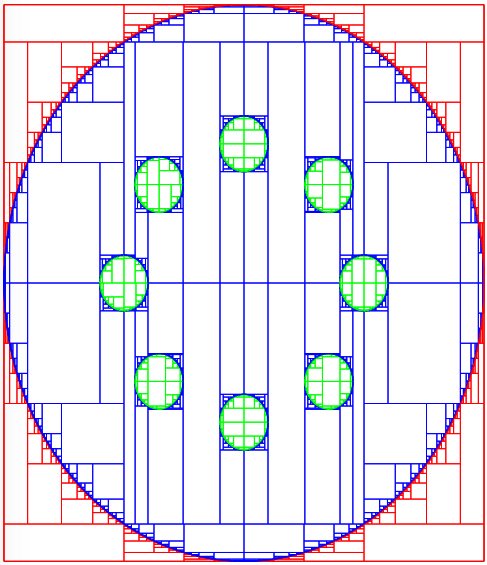
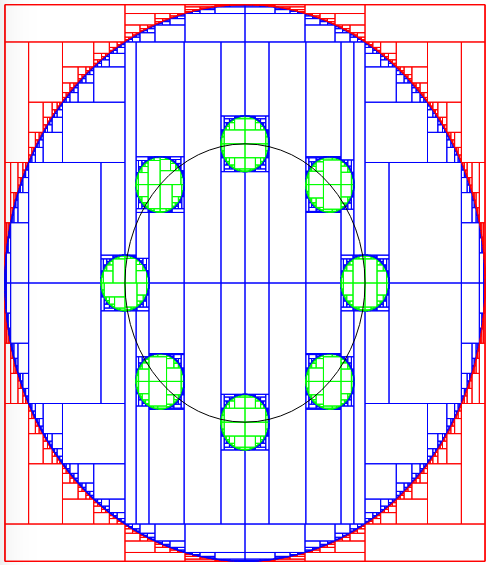
Doc update

diff --git a/examples/doc-set.cpp b/examples/doc-set.cpp
@@ -215,4 +215,79 @@ int main() {
   vibes::endDrawing();
   }
 
+  {
+  vibes::beginDrawing ();
+  vibes::newFigure("set-contract");
+
+  //! [set-contract-1-C]
+
+  double eps=0.01;
+
+  // create the set with one of the constraints
+  NumConstraint c("x","y","x^2+y^2<=25");
+  Set set(c,eps);
+
+  // create the second constraint
+  NumConstraint c2("x","y","x^2+y^2>=16");
+  // create a separator for this constraint
+  SepFwdBwd sep(c2);
+  // contract the set with the separator
+  sep.contract(set,eps);
+
+  //! [set-contract-1-C]
+
+  ToVibes to_vibes(10);
+  set.visit(to_vibes);
+  vibes::endDrawing();
+  }
+
+  {
+  vibes::beginDrawing ();
+  vibes::newFigure("set-interval");
+
+  //! [set-interval-C]
+
+  double eps=0.001;
+
+  // Create the distance function between (x,y)
+  // and the point (cos(alpha),sin(alpha))
+  Variable x,y,alpha;
+  Function f(x,y,alpha,sqr(x-cos(alpha))+sqr(y-sin(alpha)));
+
+  // Build the initial box
+  IntervalVector box(2);
+  box[0]=Interval(-2,2);
+  box[1]=Interval(-2,2);
+
+  // Create the initial i-set [emptyset,[box]]
+  SetInterval set(box);
+
+  NumConstraint ctr(x,y,sqr(x)+sqr(y)<=4);
+  // Create a separator for the i-set [emptyset,ctr]
+  // Initially, the i-set is [ctr,ctr]
+  SepFwdBwd sep(ctr);
+
+  // We set the status of the first contraction to
+  // "maybe" so that the i-set associated to the separator becomes [emptyset,ctr]
+  // We contract the set with the separator, i.e.,
+  // we compute [emptyset,[box]] & [emptyset,ctr]
+  sep.contract(set,eps,MAYBE,NO);
+
+  // Number of points
+  int n=8;
+
+  for (int i=0; i<n; i++) {
+    NumConstraint ctr(x,y,f(x,y,i*2*Interval::PI/n)<=0.04);
+    SepFwdBwd sep(ctr);
+    // We set the status of the second contraction to
+    // "maybe" so that the i-set associated to the separator becomes [ctr,R^n]
+    sep.contract(set,eps,YES,MAYBE);
+  }
+  //! [set-interval-C]
+
+  ToVibes to_vibes(2);
+  set.visit(to_vibes);
+  vibes::drawEllipse(0,0,1.0,1.0,0,"k");
+  vibes::endDrawing();
+}
 }

diff --git a/examples/lab8.cpp b/examples/lab8.cpp
@@ -52,40 +52,41 @@ public:
 };
 
 int main() {
+
 	vibes::beginDrawing ();
-	vibes::newFigure("lab5");
+	vibes::newFigure("lab8");
 
 	double eps=0.001;
+	int n=10;
+	double L=2;
 
-	// Create the function corresponding to an
-	// hyperplane of angle alpha
-	Variable x,y,alpha;
-	Function f(x,y,alpha,sqr(x-cos(alpha))+sqr(y-sin(alpha)));
+	Variable x,y;
+	Function dist(x,y,sqr(x)+sqr(y));
 
 	// Build the initial box
 	IntervalVector box(2);
-	box[0]=Interval(-2,2);
-	box[1]=Interval(-2,2);
+	box[0]=Interval(-L,L);
+	box[1]=Interval(-L,L);
 
-	Set set(box,MAYBE);
+	// Create the initial i-set [emptyset,[box]]
+	SetInterval set(box,MAYBE);
 
-	int n=8;
-
-	NumConstraint ctr(x,y,sqr(x)+sqr(y)<=4);
-	SepFwdBwd sep(ctr);
-	sep.status1=MAYBE;
-	sep.contract(set,eps);
-
+	double pi=Interval::PI.lb();
 	for (int i=0; i<n; i++) {
-		NumConstraint ctr(x,y,f(x,y,i*2*Interval::PI/n)<=0.04);
-		SepFwdBwd sep(ctr);
-		sep.status2=MAYBE;
-		sep.contract(set,eps);
+		double x0=cos(i*2*pi/n);
+		double y0=sin(i*2*pi/n);
+		NumConstraint ctr1(x,y,sqr(x-2*x0)+sqr(y-2*y0)>=0.9);
+		SepFwdBwd sep1(ctr1);
+		sep1.contract(set,eps,MAYBE,NO);
+
+		NumConstraint ctr2(x,y,sqr(x-0.9*x0)+sqr(y-0.9*y0)<=0.01);
+		SepFwdBwd sep2(ctr2);
+		sep2.contract(set,eps,YES,MAYBE);
+		//cout << x << " " << y << endl;
 	}
 
-	ToVibes to_vibes(2);
+	ToVibes to_vibes(3);
 	set.visit(to_vibes);
 
 	vibes::endDrawing();
-
 }

diff --git a/examples/lab7.cpp b/examples/lab7.cpp
@@ -1,6 +1,6 @@
 //============================================================================
 //                                  I B E X                                   
-// File        : lab4.cpp
+// File        : lab7.cpp
 // Author      : Gilles Chabert
 // Copyright   : Ecole des Mines de Nantes (France)
 // License     : See the LICENSE file
@@ -64,7 +64,7 @@ int main() {
 	Function f(p,q,Return(p*q-(1-q),(p*q-(1-q))*(1-q)-pow(p,3)));
 
 	// We require these coefficients to be all positive,
-	// i.e., the image of f to be in [0,+oo)
+	// i.e., the image of f to be in [0,+oo)x[0,+oo)
 	SepFwdBwd sep(f,IntervalVector(2,Interval::POS_REALS));
 
 	// Build the initial box

diff --git a/newdoc/reference.rst b/newdoc/reference.rst
@@ -12,6 +12,8 @@ Articles in Journal and Conferences
 .. _Jaulin14-pdf: https://www.ensta-bretagne.fr/jaulin/paper_seppath.pdf
 .. |Araya14-pdf| replace:: PDF
 .. _Araya14-pdf: http://www.lirmm.fr/~trombetton/publis/innerregions_jogo_2014.pdf
+.. |Jaulin13-pdf| replace:: PDF
+.. _Jaulin13-pdf: https://www.ensta-bretagne.fr/jaulin/paper_seppath.pdf
 .. |Araya12-pdf| replace:: PDF
 .. _Araya12-pdf: http://www.lirmm.fr/~trombetton/publis/xnewton_cpaior_2012.pdf
 .. |Trombettoni11-pdf| replace:: PDF
@@ -28,8 +30,8 @@ Articles in Journal and Conferences
 .. _Trombettoni07-pdf: http://www.lirmm.fr/~trombetton/publis/cid_cp_2007.pdf
 .. |Bessiere04-pdf| replace:: PDF
 .. _Bessiere04-pdf: http://www.emn.fr/z-info/rdebruyn/ecai04ws.pdf
-.. |Jaulin13-pdf| replace:: PDF
-.. _Jaulin13-pdf: https://www.ensta-bretagne.fr/jaulin/paper_automatica93.pdf
+.. |Jaulin93-pdf| replace:: PDF
+.. _Jaulin93-pdf: https://www.ensta-bretagne.fr/jaulin/paper_automatica93.pdf
 
 **This page is under construction**
 
@@ -37,7 +39,7 @@ Articles in Journal and Conferences
 |                    | Author(s)                    | Title                           | Journal/Conference      | Year | Link                |
 +====================+==============================+=================================+=========================+======+=====================+
 |                    |                              |                                 |                         |      |                     |
-| .. _Jaulin14:      | **L. Jauin, B. Desrochers**  | *Introduction to the Algebra of | Engineering Applications| 2014 | |Jaulin14-pdf|_     |
+| .. _Jaulin14:      | **L. Jaulin, B. Desrochers** | *Introduction to the Algebra of | Engineering Applications| 2014 | |Jaulin14-pdf|_     |
 |                    |                              | Separators with Application to  | of Artificial           |      |                     |
 | [Jaulin &          |                              | Path Planning*                  | Intelligence            |      |                     |
 | Desrochers 2014]   |                              |                                 |                         |      |                     |
@@ -46,6 +48,12 @@ Articles in Journal and Conferences
 | .. _Araya14:       | **I. Araya, G. Trombettoni,  | *Upper Bounding in Inner        | Journal of Global       | 2014 | |Araya14-pdf|_      |
 |                    | B. Neveu and G. Chabert**    | Regions for Global Optimization | Optimization            |      |                     |
 |[Araya et al. 2014] |                              | under Inequality Constraints*   |                         |      |                     |
+|                    |                              |                                 |                         |      |                     |
++--------------------+------------------------------+---------------------------------+-------------------------+------+---------------------+
+|                    |                              |                                 |                         |      |                     |
+| .. _Jaulin13:      | **L. Jaulin**                | *Solving set-valued constraint  | Computing               | 2013 | |Jaulin13-pdf|_     |
+|                    |                              | satisfaction problem*           |                         |      |                     |
+| [Jaulin 2013]      |                              |                                 |                         |      |                     |
 +--------------------+------------------------------+---------------------------------+-------------------------+------+---------------------+
 |                    |                              |                                 |                         |      |                     |
 | .. _Araya12:       | **I. Araya, G. Trombettoni,  | *A Contractor Based on Convex   | CPAIOR                  | 2012 | |Araya12-pdf|_      |
@@ -123,7 +131,7 @@ Articles in Journal and Conferences
 | [Lhomme 1993]      |                              |                                 |                         |      |                     |
 +--------------------+------------------------------+---------------------------------+-------------------------+------+---------------------+
 |                    |                              |                                 |                         |      |                     |
-| .. _Jaulin93:      | **L. Jaulin and E. Walter**  | *Set inversion via interval     | Automatica              | 1993 | |Jaulin13-pdf|_     |
+| .. _Jaulin93:      | **L. Jaulin and E. Walter**  | *Set inversion via interval     | Automatica              | 1993 | |Jaulin93-pdf|_     |
 |                    |                              | analysis for nonlinear          |                         |      |                     |
 | [Jaulin & Walter,  |                              | bounded-error estimation*       |                         |      |                     |
 | 1993]              |                              |                                 |                         |      |                     |

diff --git a/newdoc/set.rst b/newdoc/set.rst
@@ -209,6 +209,8 @@ To load a set from a file, use the constructor with string argument:
    :start-after: set-load-C
    :end-before: set-load-C
 
+.. _set-inter:
+
 ------------------------------
 Set Intersection
 ------------------------------
@@ -265,9 +267,81 @@ The result is the following picture.
 Set Contraction
 ------------------------------
 
-A :ref:`contractor <ctc>` or (better) a :ref:`separator <sep>` can be used to contract a set.
+A :ref:`separator <sep>` can be used to contract a set.
 
-In both case, the operator is recursively applied on
+The operator is recursively applied on
 the set until some precision is reached (size of boundary boxes).
 
+We illustrate this by calculating again the "ring" but in a different way.
+We have already shown how to calculate a ring:
 
+- by giving a conjunction of the constraints to the :ref:`constructor of Set <set-creation>`
+- by computing two sets separately, one for each constraint, and then by performing :ref:`an intersection <set-inter>`
+
+We now create a set for one of the constraint and then contracts this set with the other constraint.
+
+.. literalinclude:: ../examples/doc-set.cpp    
+   :language: cpp
+   :start-after: set-contract-1-C
+   :end-before: set-contract-1-C
+
+.. _set-interval:
+
+-----------------
+Set Intervals
+-----------------
+
+A set interval (or i-set) :ref:`[Jaulin 2013] <Jaulin13>` is the given of two sets :math:`(S_1,S_2)` 
+that represent a lower and upper bound (with respect to the inclusion order)
+of an unkown set S:
+
+.. math::
+
+   S_1 \subseteq S \subseteq S_2.
+
+If S_1 and S_2 are two boxes [x1] and [x2], we shall write [[x1],[x2]].
+  
+A set interval can be explicitly represented by an instance of the ``SetInterval`` class.
+It can also be implicitly represented by a separator. Let us explain how.
+A separator S have been used so far to represent a "simple" set (not a set interval)
+by two complementary contractions C1 and C2, C1 being for the inner part and C2 for the outer part.
+This means that the set associated to the separator can be seen as the following
+degenerated set interval:
+
+.. math::
+
+   set(S) = [set(C1),.\compl{\set(C2)}].
+
+Now, it is possible to change the status of either the inner or outer contraction to
+the special value ``MAYBE``. This means that the contracted part is not inside or
+outside the set but potentially inside either one. If we change this way the
+status of C1, the separator is now associated to the set interval:
+
+.. math::
+
+   set(S) = [\emptyset,.\compl{\set(C2)}].
+   
+If we change the status of C2, we obtain:
+
+.. math::
+
+   set(S) = [set(C1),\mathbb{R}^n].
+
+The next example illustrates the use of separators to contract a set interval with the
+following information:
+
+- the set is enclosed in the circle centered on the origin and of radius 2
+- the set encloses n little circles centered on different points and or radius 1 
+
+A set interval can be visited exactly like a set and we have used the same ``ToVibes``
+class as above for producing the picture below.
+
+.. literalinclude:: ../examples/doc-set.cpp    
+   :language: cpp
+   :start-after: set-interval-C
+   :end-before: set-interval-C
+
+
+.. figure:: set-interval.png
+   :width: 300 px
+   :align: center

diff --git a/newdoc/lab.rst b/newdoc/lab.rst
@@ -769,3 +769,10 @@ Our goal is to find the set of couples (a,b) that makes the origin y=0 stable. I
 
    sep.contract(set,eps);
    
+==========================================
+Unstructured Mapping
+==========================================
+
+The complete code can be found here: ``examples/lab/lab8.cpp``.
+
+**Introduction**
